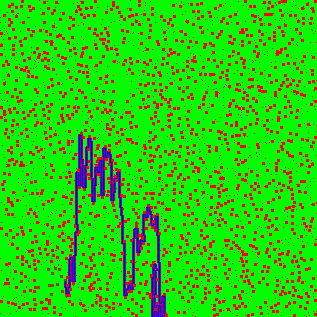
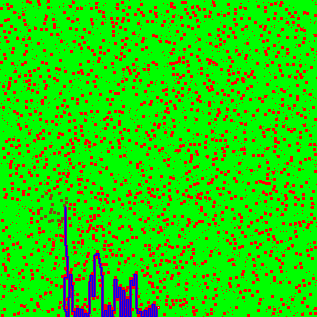
Algorithm Path starts at player position
Moved algorithm start point from player spawn to player position as they move through the map. Also changed water texture.

Changed region(s): [[0.0, 0.0, 1.0, 1.0]]

diff --git a/worldGenerationFunctions.py b/worldGenerationFunctions.py
@@ -46,7 +46,7 @@ class GameScreen:
         # initialize the player controller
         self.player=FirstPersonController(
         mouse_sensitivity=Vec2(100, 100), # Mouse sensitivity
-        position=(self.player_spawn_x, 7, self.player_spawn_z), # Player spawn position
+        position=(self.player_spawn_x, -5, self.player_spawn_z), # Player spawn position
         speed=self.player_speed # Player movement speed
         )
 
@@ -103,13 +103,13 @@ class GameScreen:
         cols = len(tile_map[0])
 
         # Find the player's and home's position
-        start = None
+        player_x = int(self.player.x)
+        player_z = int(self.player.z)
+        start = (player_x, player_z)
         goal = []
         for i in range(rows):
             for j in range(cols):
-                if tile_map[i][j] == 'P':  # 'P' represents the player
-                    start = (i, j)
-                elif tile_map[i][j] == 'H':  # 'H' represents the home
+                if tile_map[i][j] == 'H':  # 'H' represents the home
                     goal.append((i, j))
 
         if start is None or goal is None:
@@ -145,6 +145,7 @@ class GameScreen:
                 for x, z in path:
                     draw.point((self.settings.get_world_size() - x - 1, z), fill=(0, 0, 255, 255))
                 self.bfsMap.save("minimapAlgorithmPathBFS.png")
+                self.MiniMap.texture = "minimapAlgorithmpathBFS.png"
 
                 return path  # List of tuples from start to goal
 
@@ -179,13 +180,13 @@ class GameScreen:
         cols = len(tile_map[0])
 
         # Find the player's and home's position
-        start = None
+        player_x = int(self.player.x)
+        player_z = int(self.player.z)
+        start = (player_x, player_z)
         goal = []
         for i in range(rows):
             for j in range(cols):
-                if tile_map[i][j] == 'P':  # 'P' represents the player
-                    start = (i, j)
-                elif tile_map[i][j] == 'H':  # 'H' represents the home
+                if tile_map[i][j] == 'H':  # 'H' represents the home
                     goal.append((i, j))
 
         if start is None or goal is None:
@@ -220,6 +221,7 @@ class GameScreen:
                 for x, z in path:
                     draw.point((self.settings.get_world_size() - x - 1, z), fill=(0, 0, 255, 255))
                 self.image.save("minimapAlgorithmPathDFS.png")
+                self.MiniMap.texture = "minimapAlgorithmpathDFS.png"
                 print("DFS algorithm complete")
                 return path  # List of tuples from start to goal
 
@@ -246,13 +248,13 @@ class GameScreen:
         self.drawDijkstra = ImageDraw.Draw(self.dijkstraMap)
         draw = self.drawDijkstra
 
-        start = None
+        player_x = int(self.player.x)
+        player_z = int(self.player.z)
+        start = (player_x, player_z)
         goal = []
         for i in range(rows):
             for j in range(cols):
-                if tile_map[i][j] == 'P':  # 'P' represents the player
-                    start = (i, j)
-                elif tile_map[i][j] == 'H':  # 'H' represents the home
+                if tile_map[i][j] == 'H':  # 'H' represents the home
                     goal.append((i, j))
                     break
         print(f"Start: {start}")
@@ -282,6 +284,7 @@ class GameScreen:
                     predecessors[neighbor] = current_node
                     heapq.heappush(queue, (distance, neighbor))
         self.dijkstraMap.save("minimapAlgorithmVisitedDijkstra.png")
+        self.MiniMap.texture = "minimapAlgorithmpathDijkstra.png"
         # Reconstruct the shortest path
         path = []
         node = nearestNode
@@ -323,7 +326,6 @@ class Block(Entity):
             **kwargs  # Allow additional parameters to be passed
         )
         self.block_type = block_type
-
 def calculateDijkstraDictionary(settings, tile_map, tile_coordinates, single_locations, cluster_locations):
     obstacle_cluster_types = ["stone", "lava", "water"]  # Cluster obstacle types
     obstacle_single_types = ["wood", "bedrock", "mud", "darkstone", "trimmedGrass"]  # Single obstacle types

diff --git a/worldSettings.py b/worldSettings.py
@@ -26,7 +26,7 @@ class worldSettings:
             "stone": load_texture("minecraft_starter/assets/textures/Stone01.png"),
             "bedrock": load_texture("minecraft_starter/assets/textures/stone07.png"),
             "lava": load_texture("minecraft_starter/assets/textures/lava01.png"),
-            "water": load_texture("minecraft_starter/assets/textures/water.png"),
+            "water": load_texture("minecraft_starter/assets/textures/water2.png"),
             "torch" : load_texture("minecraft_starter/assets/textures/Diffuse.png"),
             "obstacleTile" : load_texture("minecraft_starter/assets/textures/wallBrick05.png"),
             "wood" : load_texture("minecraft_starter/assets/textures/Wood.png"),
